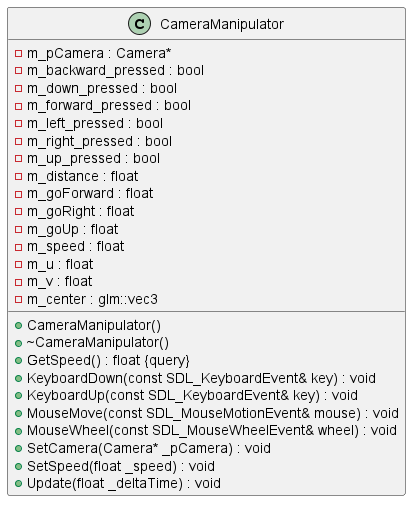
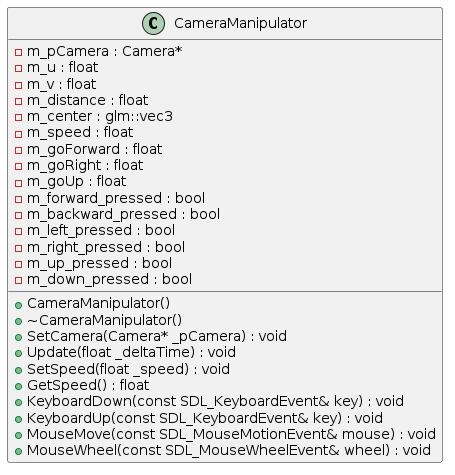
fixed the order in puml class diagram files

Changed region(s): [[0.0, 0.0, 0.9952, 1.0]]

diff --git a/conanfile.py b/conanfile.py
@@ -11,7 +11,8 @@ class App(ConanFile):
 
     def requirements(self):
         self.requires("opengl/system")
-        self.requires("glew/2.2.0", override=True)
+        #self.requires("glew/2.2.0")
+        self.requires("glew/2.2.0", options={"with_glu" : "system"})
         self.requires("glu/system")
         self.requires("imgui/1.91.2")
         self.requires("sdl/2.28.3")
